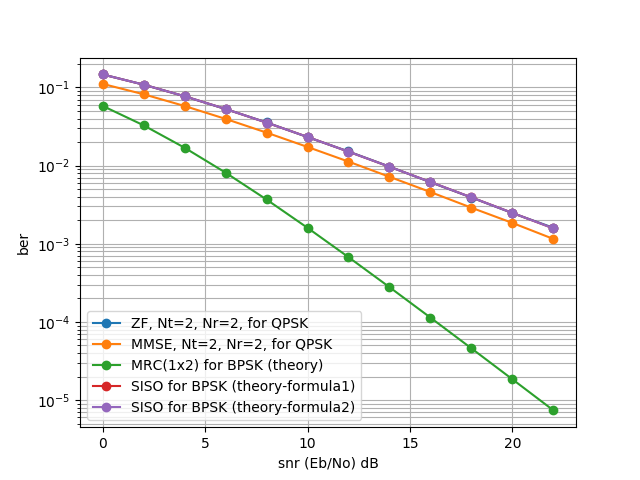
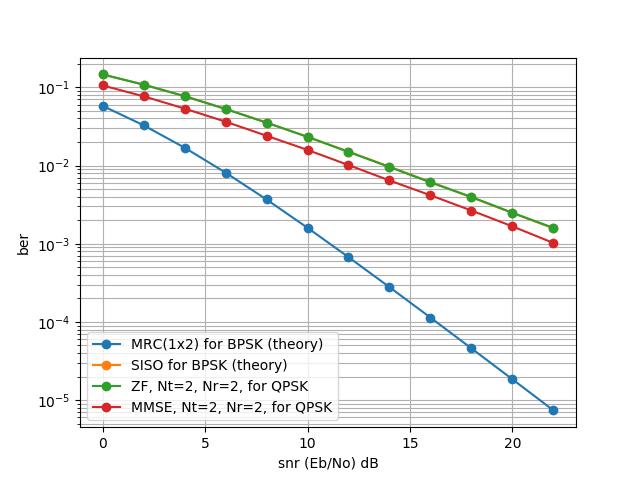
將MIMO的MMSE equalizeer公式做修正 MIMO已修正: 	MMSE的公式解

diff --git a/MIMO/detection/ZF and MMSE detection/ZF_MMSE detection.py b/MIMO/detection/ZF and MMSE detection/ZF_MMSE detection.py
@@ -2,20 +2,43 @@ import numpy as np
 import matplotlib.pyplot as plt
 import math
 
+# MMSE 的公式推導可參考 https://www.youtube.com/watch?v=aQqgMcSviko
+# 如果要直接看結論公式可快轉到 30:52
+
 snr_db = [0]*12
 snr = [0]*12
 ber = [0]*12
-Nt = 4 #傳送端天線數
-Nr = 4 #接收端天線數
+Nt = 2 #傳送端天線數
+Nr = 2 #接收端天線數
 N = 1000000 #執行N次來找錯誤率
 for i in range(len(snr)):
     snr_db[i] = 2*i
     snr[i] = np.power(10,snr_db[i]/10)
 
-constellation = [ -1, 1 ]  #定義星座點的集合
+# 定義BPSK星座點
+constellation = [ -1, 1 ]
 constellation_name="BPSK"
-constellation = [ -1-1j, -1+1j, 1-1j, 1+1j ]  #定義星座點的集合
+
+# 定義QPSK星座點
+constellation = [ -1-1j, -1+1j, 1-1j, 1+1j ]
 constellation_name="QPSK"
+
+
+# 定義16QAM星座點
+constellation = [1+1j,1+3j,3+1j,3+3j,-1+1j,-1+3j,-3+1j,-3+3j,-1-1j,-1-3j,-3-1j,-3-3j,1-1j,1-3j,3-1j,3-3j]
+constellation_name='16QAM'
+# 16QAM時MMSE的錯誤率會出問題!?
+'''
+# 接著定義64QAM星座點
+constellation_new = [-7 , -5, -3, -1, 1, 3, 5, 7]
+constellation_name = '64QAM'
+constellation = []
+for i in range(len(constellation_new)):
+    for j in range(len(constellation_new)):
+        constellation += [constellation_new[i] + 1j*constellation_new[j]]
+'''
+
+
 
 #這裡採用 Nt x Nr 的MIMO系統，所以通道矩陣為 Nr x Nt
 H = [[0j]*Nt for i in range(Nr)]
@@ -23,7 +46,7 @@ H = np.matrix(H)
 symbol = [0]*Nt #因為有Nt根天線，而且接收端不採用任何分集技術，所以會送Nt個不同symbol
 y = [0]*Nr      #接收端的向量
 
-for k in range(5):
+for k in range(4):
     for i in range(len(snr)):
         error = 0
 
@@ -37,15 +60,14 @@ for k in range(5):
         # 因為沒有像space-time coding 一樣重複送data，所以Eb不會再變大
         No = Eb / snr[i]                    # 最後決定No
 
-        if k==2:# MRC(1x2) for BPSK (theory)
+        if k==0:# MRC(1x2) for BPSK (theory)
             ber[i] = 1 / 2 - 1 / 2 * np.power(1 + 1 / snr[i], -1 / 2)
             ber[i] = ber[i] * ber[i] * (1 + 2 * (1 - ber[i]))
             continue
-        elif k==3:# SISO for BPSK (theory)
-            ber[i] = 1 / 2 - 1 / 2 * np.power(1 + 1 / snr[i], -1 / 2)
-            continue
-        elif k==4:# SISO for BPSK (theory)
-            ber[i] = 1/2*(1-np.sqrt(snr[i]/(snr[i]+1)))
+        elif k==1:# SISO for BPSK (theory)
+            ber[i] = 1 / 2 * (1 - np.sqrt(snr[i] / (snr[i] + 1)))
+            # 亦可用以下公式
+            #ber[i] = 1 / 2 - 1 / 2 * np.power(1 + 1 / snr[i], -1 / 2)
             continue
 
         for j in range(N):
@@ -70,12 +92,12 @@ for k in range(5):
                     y[m] += H[m,n]*symbol[n]
                 y[m] += np.sqrt(No/2)*np.random.randn() + 1j*np.sqrt(No/2)*np.random.randn()
 
-            if k==0:#執行ZF detection
+            if k == 2:#執行ZF detection
                 #決定ZE 的weight matrix
                 W = ((H.getH()*H)**(-1))*H.getH()  #W為 Nt x Nr 矩陣
-            elif k == 1:  # 執行MMSE detection
+            elif k == 3:  # 執行MMSE detection
                 # 決定MMSE 的weight matrix
-                W = ((H.getH() * H + 1 / snr[i] * np.identity(Nt)) ** (-1)) * H.getH()  # W為 Nt x Nr 矩陣
+                W = Es * (Es * H.getH() * H + No * np.identity(Nt)).I * H.getH()  # W為 Nt x Nr 矩陣
 
             # receive向量 = W矩陣 * y向量
             receive = [0]*Nt
@@ -94,26 +116,63 @@ for k in range(5):
 
                 if symbol[m] != detection:
                     if constellation_name == 'BPSK':
-                        error += 1 # error為symbol error 次數
+                        error += 1 # error為bit error 次數
                     elif constellation_name == 'QPSK':
                         if abs(detection.real - symbol[m].real) == 2:
                             error += 1
                         if abs(detection.imag - symbol[m].imag) == 2:
                             error += 1
+                    elif constellation_name == '16QAM':
+                        if abs(detection.real - symbol[m].real) == 2 or abs(detection.real - symbol[m].real) == 6:
+                            error += 1
+                        elif abs(detection.real - symbol[m].real) == 4:
+                            error += 2
+                        if abs(detection.imag - symbol[m].imag) == 2 or abs(detection.imag - symbol[m].imag) == 6:
+                            error += 1
+                        elif abs(detection.imag - symbol[m].imag) == 4:
+                            error += 2
+                    elif constellation_name == '64QAM':
+                        if abs(detection.real - symbol[m].real) == 2 or abs(detection.real - symbol[m].real) == 6 or abs(detection.real - symbol[m].real) == 14:
+                            error += 1
+                        elif abs(detection.real - symbol[m].real) == 4 or abs(detection.real - symbol[m].real) == 8 or abs(detection.real - symbol[m].real) == 12:
+                            error += 2
+                        elif abs(detection.real - symbol[m].real) == 10:
+                            error += 3
+                        if abs(detection.imag - symbol[m].imag) == 2 or abs(detection.imag - symbol[m].imag) == 6 or abs(detection.imag - symbol[m].imag) == 14:
+                            error += 1
+                        elif abs(detection.imag - symbol[m].imag) == 4 or abs(detection.imag - symbol[m].imag) == 8 or abs(detection.imag - symbol[m].imag) == 12:
+                            error += 2
+                        elif abs(detection.imag - symbol[m].imag) == 10:
+                            error += 3
 
 
         ber[i] = error/(K*Nt*N) #除以K是因為一個symbol有K個bit
 
     if k==0:
-        plt.semilogy(snr_db,ber,marker='o',label='ZF, Nt={0}, Nr={1}, for {2}'.format(Nt,Nr,constellation_name))
+        plt.semilogy(snr_db, ber, marker='o', label='MRC(1x2) for BPSK (theory)')
     elif k==1:
-        plt.semilogy(snr_db,ber,marker='o',label='MMSE, Nt={0}, Nr={1}, for {2}'.format(Nt,Nr,constellation_name))
+        plt.semilogy(snr_db, ber, marker='o', label='SISO for BPSK (theory)')
     elif k==2:
-        plt.semilogy(snr_db,ber,marker='o',label='MRC(1x2) for BPSK (theory)')
+        plt.semilogy(snr_db, ber, marker='o', label='ZF, Nt={0}, Nr={1}, for {2}'.format(Nt, Nr, constellation_name))
+        # 將錯誤率的數據存成檔案
+        if N >= 1000000:  # 在很多點模擬分析的情況下，錯誤率較正確，我們可以將數據存起來，之後就不用在花時間去模擬
+            with open('ZF detection for {0} (Nt={1}, Nr={2}).dat'.format(constellation_name, Nt, Nr), 'w') as f:
+                f.write('snr_db\n')
+                for m in range(len(snr_db)):
+                    f.write("{0} ".format(snr_db[m]))
+                f.write('\nber\n')
+                for m in range(len(snr_db)):
+                    f.write("{0} ".format(ber[m]))
     elif k==3:
-        plt.semilogy(snr_db,ber,marker='o',label='SISO for BPSK (theory-formula1)')
-    elif k==4:
-        plt.semilogy(snr_db,ber,marker='o',label='SISO for BPSK (theory-formula2)')
+        plt.semilogy(snr_db, ber, marker='o', label='MMSE, Nt={0}, Nr={1}, for {2}'.format(Nt, Nr, constellation_name))
+        if N >= 1000000:  # 在很多點模擬分析的情況下，錯誤率較正確，我們可以將數據存起來，之後就不用在花時間去模擬
+            with open('MMSE detection for {0} (Nt={1}, Nr={2}).dat'.format(constellation_name, Nt, Nr), 'w') as f:
+                f.write('snr_db\n')
+                for m in range(len(snr_db)):
+                    f.write("{0} ".format(snr_db[m]))
+                f.write('\nber\n')
+                for m in range(len(snr_db)):
+                    f.write("{0} ".format(ber[m]))
 plt.legend()
 plt.ylabel('ber')
 plt.xlabel('snr (Eb/No) dB')
